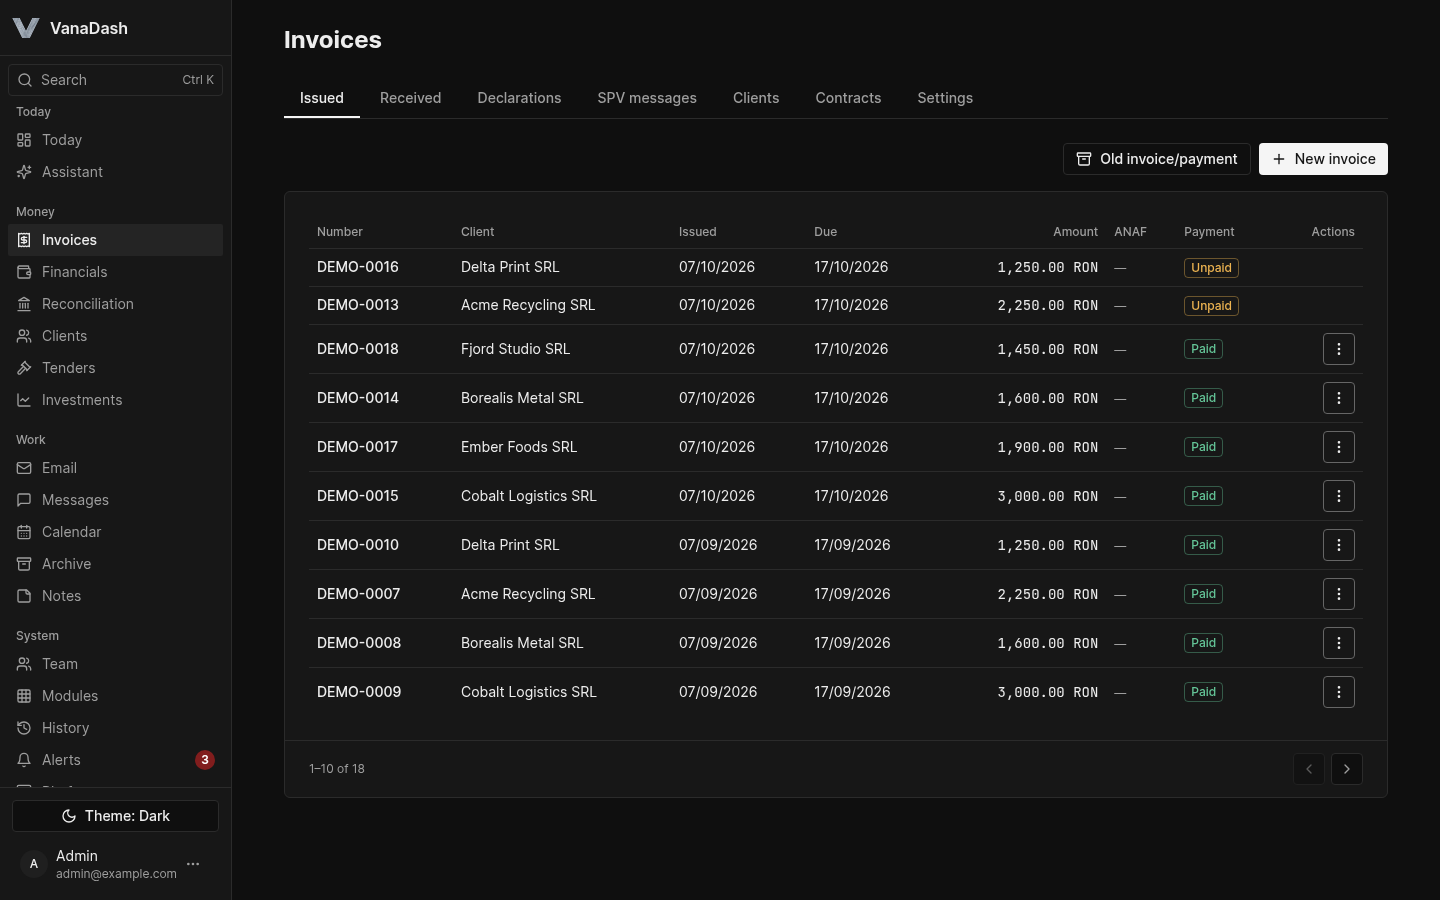
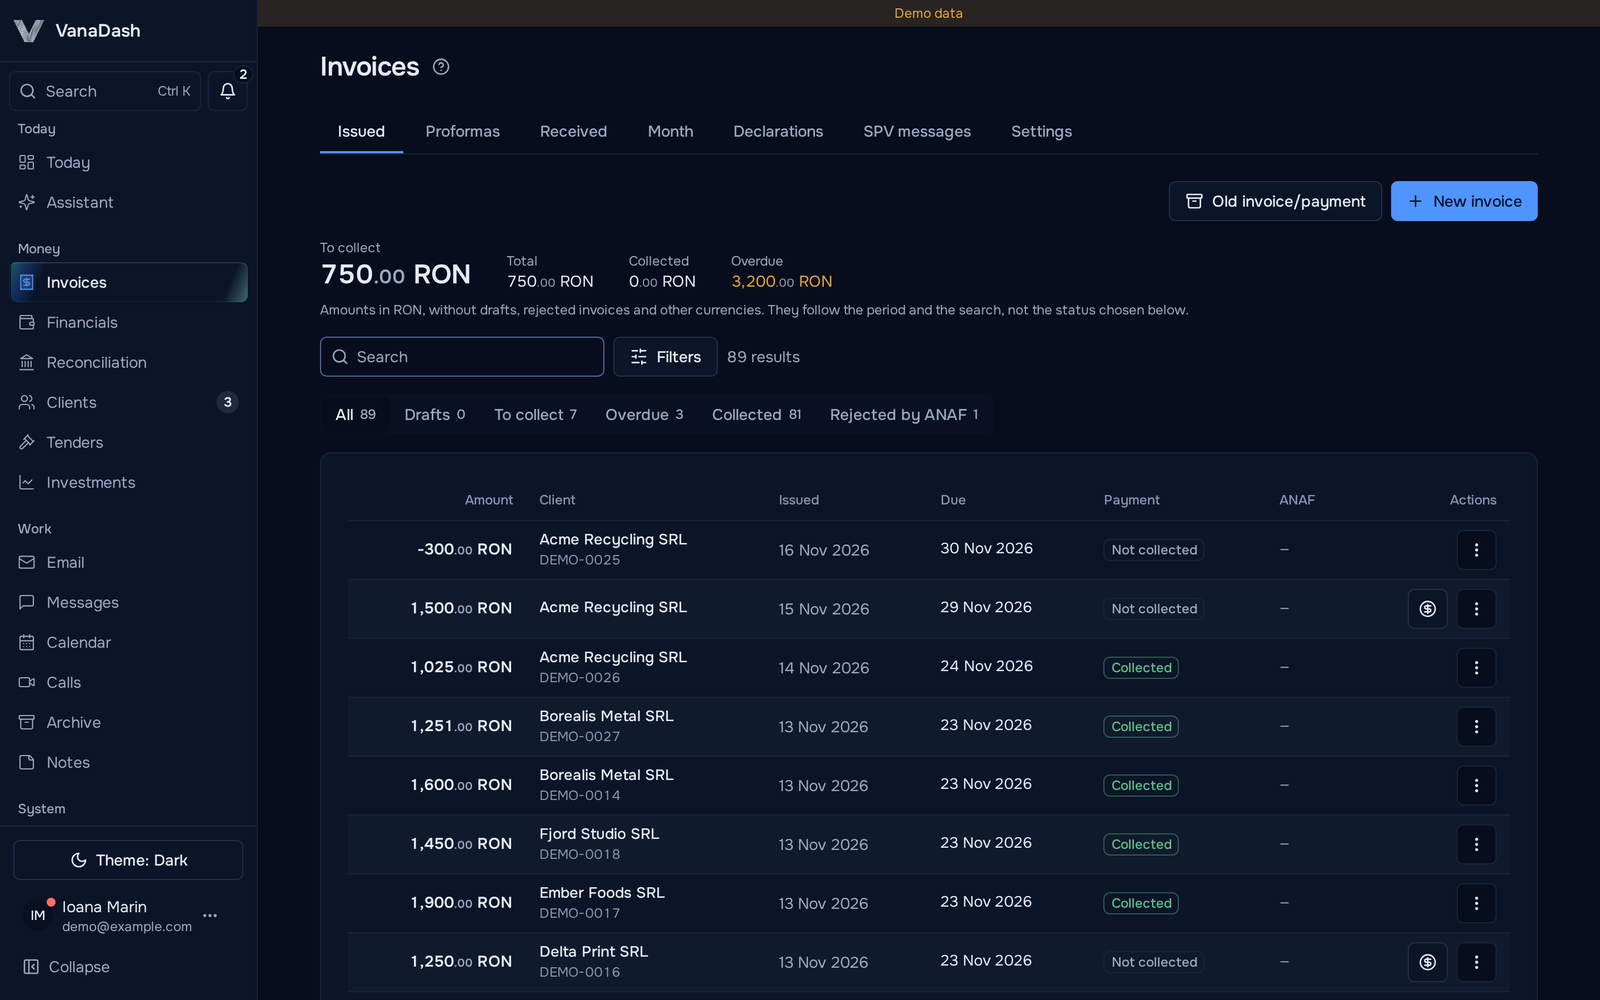
docs: present VanaDash as a public example of our work
Refresh the README for the current product, add a guide to the code worth
reading, and replace the screenshots with English captures on demo data.

diff --git a/README.md b/README.md
@@ -1,35 +1,55 @@
 # VanaDash
 
-The internal back office of [Vanadium Systems](https://vanadium.systems), a one-person software
-company in Romania: invoicing, bank reconciliation, email, team chat, calendar, CRM and server
-monitoring in a single app, on a single small VPS. It runs in production every day.
+VanaDash is the software [Vanadium Systems](https://vanadium.systems) built to run itself: invoicing,
+bank reconciliation, email, encrypted team chat and calls, calendar, CRM and server monitoring in a
+single app, on a single small VPS. We use it every day, on real invoices and real money.
 
-The source is public so you can read it, run it and send changes. It is **source-available, not
-open source**: see [License](#license).
+The source is public as an example of how we work. It shows what we built for ourselves and the
+standard we bring to software we build for other companies. If you are thinking of hiring us, read
+the code first. It is **source-available, not open source**: see [License](#license).
 
 ![The home screen, with demo data](docs/screenshots/overview-dark.png)
+
+## Where to look
+
+- **Access control:** [`features.ts`](backend/src/shared/lib/features.ts) maps every route to one
+  feature, and the server refuses to start if a route is left out.
+- **Company isolation:** row-level security on every business table, tested on each CI run with the
+  same restricted database role production uses ([`tenancy.ts`](backend/src/shared/lib/tenancy.ts)).
+- **e-Invoicing:** the [ANAF connector](backend/src/connectors/anaf), with its UBL builder, VAT
+  declarations and retries against a real government API.
+- **Encrypted chat:** Olm and Megolm, cross-signing and key backup, with ciphertext only on the server.
+- **Schema history:** every change as a SQL migration in
+  [`backend/src/shared/db/migrations`](backend/src/shared/db/migrations).
 
 ## What's inside
 
 | Module | What it does | Scope |
 |---|---|---|
-| Invoices | Issues and numbers invoices, renders PDF and UBL XML, tracks payment | Romania-specific |
+| Invoices | Issues and numbers invoices and proformas, handles credit notes, renders PDF and UBL XML, tracks payments | Romania-specific |
 | e-Factura / SPV | Sends issued invoices to ANAF, pulls received ones, reads SPV messages | Romania-specific |
-| Declarations | Builds the D301 and D390 VAT declarations and a quarterly package | Romania-specific |
+| Declarations | Builds the D301 and D390 VAT declarations, a monthly close checklist and a quarterly package | Romania-specific |
 | Contracts | Editable contract templates, addenda, digital signature placement | Romanian contract text |
 | Reconciliation | Imports bank transactions (Revolut Business) and matches them to invoices | Country-neutral |
 | Financials | Profit and loss, cash flow, monthly reports; EUR/USD rates from the BNR | BNR feed is Romania-specific |
-| Clients | Prospect list with scoring, a price calculator, promotion to client | Country-neutral |
+| Clients | Prospect list with scoring and team ownership, a price calculator, promotion to client | Country-neutral |
 | Tenders | Watches the Romanian public procurement portal (SICAP) for matching notices | Romania-specific |
-| Email | Shared mailboxes, threads, templates, bulk sends, drip sequences | Country-neutral |
-| Messages | Direct and group chat in real time, attachments, presence | Country-neutral |
+| Email | Shared mailboxes, threads, templates, bulk sends, drip sequences, separate SMTP mailboxes for outreach | Country-neutral |
+| Messages | End-to-end encrypted direct and group chat in real time, attachments, presence | Country-neutral |
+| Calls | End-to-end encrypted audio and video calls from Messages or by guest link, over LiveKit Cloud | Country-neutral |
 | Calendar | Per-person calendars, sharing, common events, public booking | Country-neutral |
 | Archive | Per-person file spaces on object storage, folder sharing | Country-neutral |
 | Notes, Plan, Wishlist | Personal notes and goals | Country-neutral |
+| Investments | Watchlists, portfolio and orders on your own exchange or broker account | Country-neutral |
 | Platforms, Alerts | Pulls KPIs from other products through connectors; threshold alerts | Country-neutral |
 | Team, Modules, History | Invitations, roles, a feature catalog switched on per role, audit log | Country-neutral |
 | Support, Guides, Updates | Tickets to the operator, per-page guides, release notes | Country-neutral |
-| Assistant | An in-app assistant that can read what the user can read | Country-neutral |
+| Assistant | An in-app assistant that can read what the user can read, on Anthropic's API or a local model | Country-neutral |
+| API tokens, MCP | Personal tokens for the API and an MCP endpoint for AI clients, limited by the person's role | Country-neutral |
+
+![Invoices, with demo data](docs/screenshots/invoices-dark.png)
+
+![Encrypted team messages, with demo data](docs/screenshots/messages-light.png)
 
 There is also a thin Android shell (Capacitor) that loads the web app and receives push
 notifications.
@@ -57,8 +77,12 @@ Access is a catalog, checked at startup. Every route must resolve to exactly one
 A route that does not resolve stops the server from starting, and so does one registered without
 authentication and not declared public. A new endpoint cannot ship unguarded by accident.
 
-It serves a single company, so there is no tenant isolation. Roles and features decide what each
-colleague sees.
+Company data is separated in the database. It serves one company today, but business tables carry
+a `tenant_id`, PostgreSQL row-level security enforces it in production, and each company has its
+own encryption key. Inside a company, roles and features decide what each colleague sees.
+
+Messages are encrypted on the sender's device with Olm and Megolm, so the server stores ciphertext
+and search inside a conversation runs on the device. Calls are encrypted end to end as well.
 
 ## Adapting it to another country
 
@@ -68,7 +92,9 @@ The neutral modules work as they are. To use the money side elsewhere you would 
    authority's e-invoicing API, or none;
 2. the declaration builders (`connectors/anaf/declarations`);
 3. the exchange-rate source ([`shared/lib/bnr.ts`](backend/src/shared/lib/bnr.ts));
-4. the contract templates, which are Romanian legal text.
+4. the contract templates, which are Romanian legal text;
+5. the country pack ([`backend/src/countries`](backend/src/countries)): time zone, currency,
+   address rules, phone format, declaration deadlines and the company register lookup.
 
 Start with [`docs/CONNECTOR_GUIDE.md`](docs/CONNECTOR_GUIDE.md). Pull requests are not accepted
 for now (see [CONTRIBUTING.md](CONTRIBUTING.md)), but an issue saying which country you need helps.
@@ -127,7 +153,8 @@ In production since mid-2026, used daily by its author and a few colleagues.
   [docs/GLOSSARY.md](docs/GLOSSARY.md).
 - Code comments are mostly in Romanian too. New code and all public documentation are written in
   English; older comments are translated as the files are touched.
-- Not planned for now: multi-company hosting on one instance, video calls.
+- Hosting other companies on one instance is built at the data level but not offered yet.
+- Not planned for now: a hosted sign-up page. People join by invitation.
 
 ## License
 
@@ -138,12 +165,11 @@ selling it, without a separate licence from Vanadium Systems.
 
 The name and logo are not covered by that licence: see [TRADEMARKS.md](TRADEMARKS.md).
 
-## Want this for your company?
+## Want something like this for your company?
 
-Tell me what you need. The app was shaped by one Romanian company's work, so for another company
-or another country the first step is a conversation about your invoicing rules, your bank and the
-tools you want to replace. A commercial licence, a hosted instance or custom work are all
-possible; which one makes sense depends on that conversation.
+This is the kind of software we build. VanaDash was shaped by one Romanian company's work, and yours
+will have its own rules, bank and tools, so the first step is a conversation about them. It can end
+in custom software, a commercial licence or a hosted instance.
 
 Write to <contact@vanadium.systems>.
 

diff --git a/CONTRIBUTING.md b/CONTRIBUTING.md
@@ -43,7 +43,8 @@ These are the ones that get a pull request sent back.
   `backend/src/modules/<name>`; shared code lives in `backend/src/shared`.
 - Platform-specific logic stays in its connector (`backend/src/connectors/<platform>`), with no
   `if (platform.type === ...)` anywhere else.
-- There is no `tenant_id`: this is a single-company app.
+- `tenant_id` comes from the request context and row-level security enforces it. Services never
+  filter on it by hand or take it as a parameter.
 - Aggregation is done in SQL, never with `.reduce()` over rows fetched from a large table.
 - Metrics are upserted, never plainly inserted.
 - Outbound requests have a timeout, and requests to public sources go one at a time with a cap.
